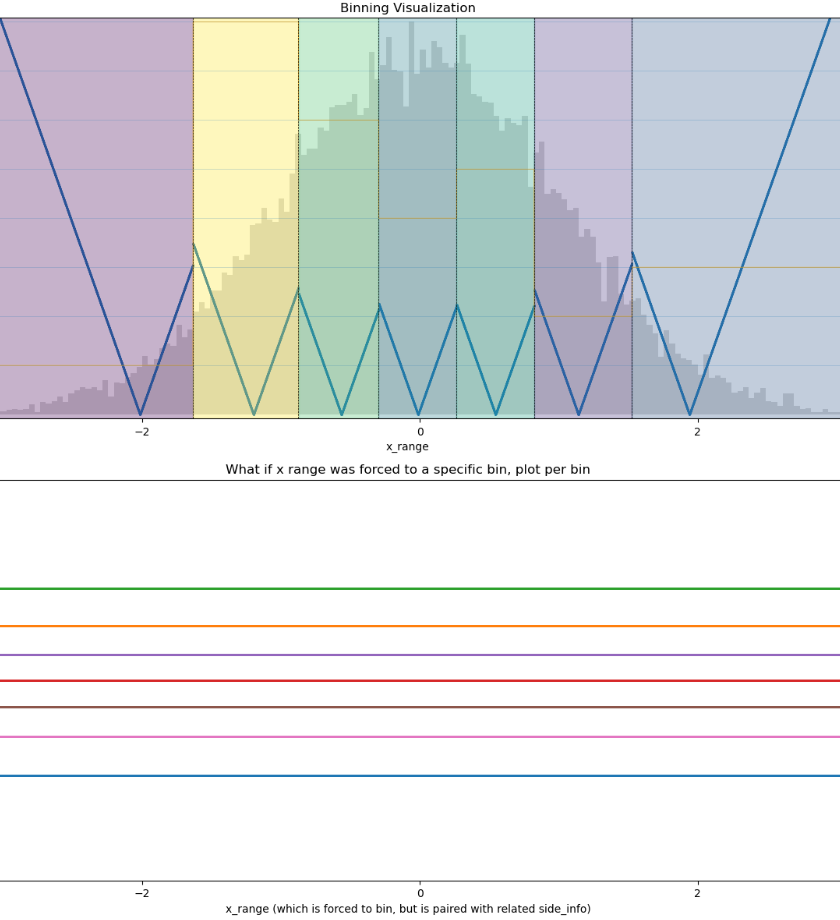
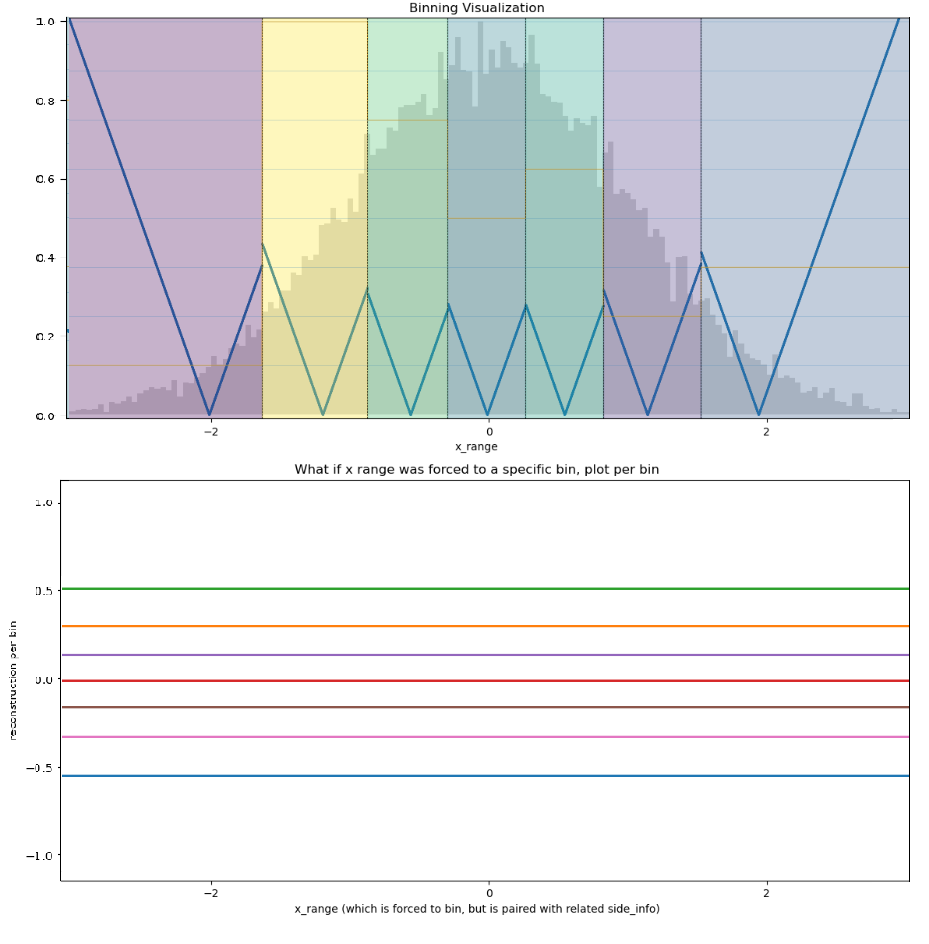
fixed issues with the thesis text

diff --git a/Thesis_doc/Chapters/chapter_4_results_discussion/4-1_gains_over_baselines.tex b/Thesis_doc/Chapters/chapter_4_results_discussion/4-1_gains_over_baselines.tex
@@ -1,11 +1,11 @@
 \section{Gains over Baselines}
-The table below shows information about the different protocols used in our experiments, including the bit rate, accuracy, convergence speed, and reconstruction error. The hybrid and worker-side protocols achieve the best compression rates while maintaining high accuracy and convergence speed. The all-out protocol achieves a respectable rate distortion, but its not the best. the \ref{tab:protocol_comparison} summarizes the performance of various protocols used in our experiments.
+The table below shows information about the different protocols used in our experiments, including the bit rate, accuracy, convergence speed, and reconstruction error. The hybrid and worker-side protocols achieve the best compression rates while maintaining high accuracy and convergence speed. The all-out protocol achieves a respectable rate distortion, but its not the best. the \ref{tab:protocol_comparison} summarizes the performance of various protocols used in our experiments. Hybrid 1bit is a variant of the Hybrid protocol that uses 1-stage 1-bit quantizer.
 
 \begin{table}[H]
     \centering
-    \begin{tabular}{|c|c|c|c|}
+    \begin{tabular}{|c|c|c|c|c|c|}
         \hline
-        Protocol & Bit Rate (BPP) & AUC (\%) at Round 20 & AUC (\%) at Round 40 & Reconstruction MAPE (\%) \\
+        Protocol & Bit Rate (BPP) & AUC (\%) at R. 20 & AUC (\%) at R. 40 & avg MAPE (\%) \\
         \hline
         Basic Entropy & 6.1 & 91.5 & 96 & 0 \\
         \hline
@@ -13,13 +13,15 @@ The table below shows information about the different protocols used in our expe
         \hline
         All-Out & 1.6 & 89.5 & 95 & 33 \\
         \hline
-        All-Out without pre/post-proc. & N/A & 88 & 94 & N/A \\
+        All-Out wo pre-proc. & N/A & 88 & 94 & N/A \\
         \hline
         All-Out + global model & 2.1 (model BPP) & 86.5 & 92 & N/A \\
         \hline
         Worker-Side & 0.9 & 91 & 96 & 22.5 \\
         \hline
-        Hybrid & 0.9 & 88 & N/A & 25 \\
+        Hybrid & 0.9 & 88 & 96 & 25 \\
+        \hline
+        Hybrid 1bit & 0.67 & 88 & 96 & 40 \\
         \hline
     \end{tabular}
     \caption{Comparison of different protocols on ResNet-18 trained on the SVHN dataset. The bit rate is calculated as the total number of bits sent divided by the total number of parameters sent. The accuracy is the final accuracy achieved after training for a fixed number of rounds. MAPE represents the Mean Absolute Percentage Error of gradient reconstruction.}

diff --git a/Thesis_doc/Chapters/chapter_3_materials_methods/3-7_Protocols.tex b/Thesis_doc/Chapters/chapter_3_materials_methods/3-7_Protocols.tex
@@ -5,6 +5,7 @@ Before discussing the protocols, we offer a diagram of the overall encoding and 
 
 \begin{figure}[htbp]
     \centering
+    \includegraphics[width=1\textwidth]{Chapters/chapter_3_materials_methods/figures/encoding process}
     \includegraphics[width=1\textwidth]{Chapters/chapter_3_materials_methods/figures/decoding process}
     \caption{The encoding and decoding process for the proposed protocols. G and G' are the original and reconstructed gradients, respectively.}
     \label{fig:wz-pipeline}
